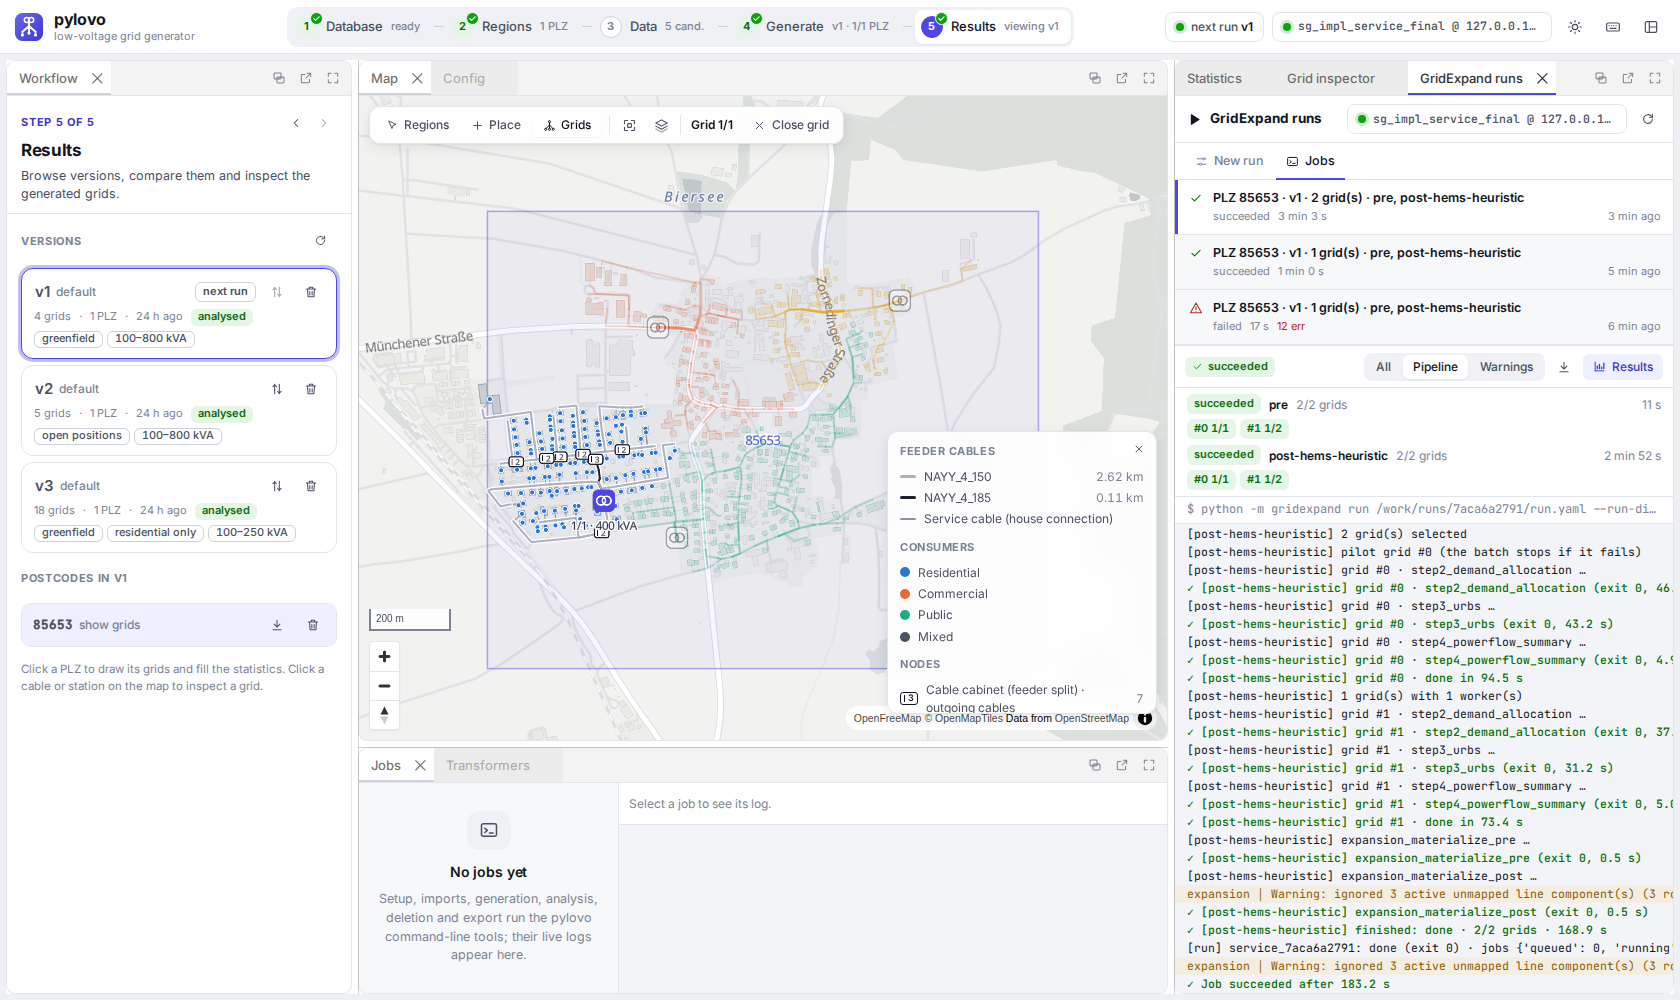
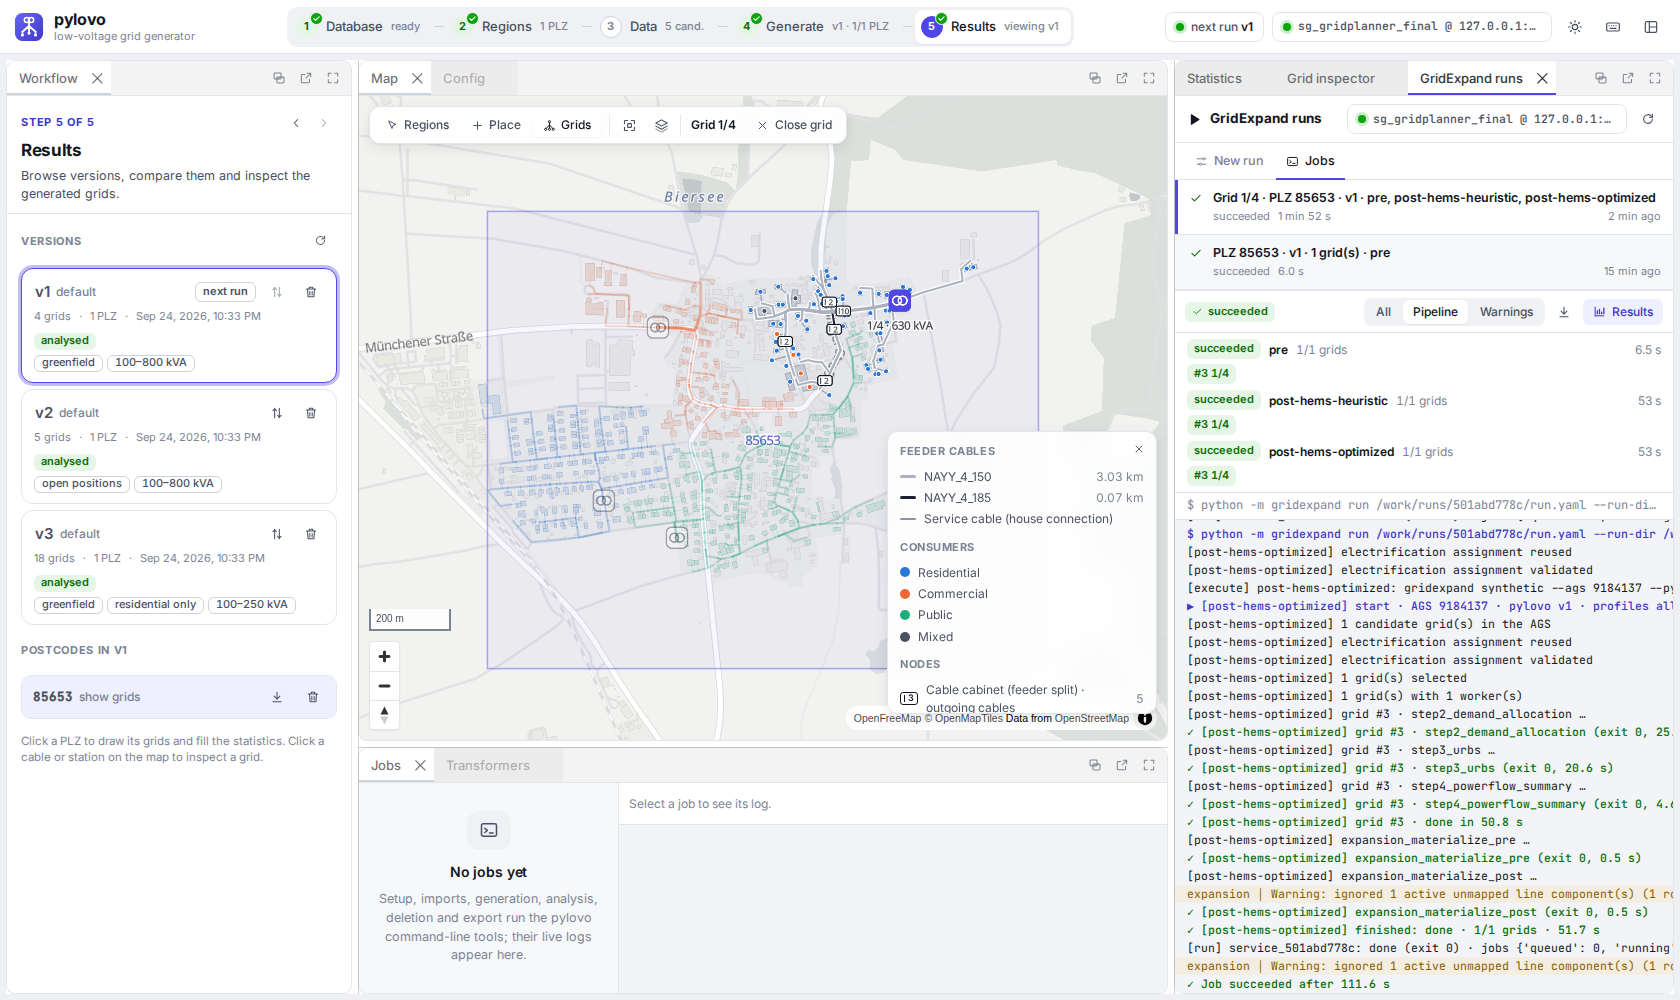
CHANGES.md: round 2 (building assets, single-grid runs, scenario editor, one-command setup); service screenshots

diff --git a/CHANGES.md b/CHANGES.md
@@ -321,3 +321,37 @@ Removed from the repository (agent handovers, per `AGENTS.md`): the two `*_AGENT
 - Agent briefs, reviews and reports: `../AI/SurroGrid/GridExpand/fable-review/` (a copy of this file too).
 - pylovo: branch `fable/ui-plugins-dev-review` (plugin loader) is not merged; it merges cleanly onto the current
   `feature/dev-review` (`c3020e8`). Your pylovo checkout (`local-grid-preparation-new`) was not touched.
+
+---
+
+## 12. Round 2: GridPlanner case-study workflow (2026-09-26)
+
+Your feedback: asset symbols on the map, scenario settings in the UI, a simpler setup from built images,
+and one grid's full pipeline in the UI (a whole PLZ stays a terminal job).
+
+| Change | Where |
+|---|---|
+| **Building assets on the map.** Step 4 stores the assets each post-case power flow simulated (new table `powerflow_asset`, migration `0005`): PV per building, battery, heat pump, heating rod, heat storage and EVs per bus, from the Step 3 capacities (heuristic rules or optimisation). The map layer draws one small pill per building with a badge for PV, battery, heat pump and EV, a dot where the pill does not fit; the legend switches each asset type and shows totals; hovering shows the sizes (kWp, kWh/kW, kW el, buffer, EVs and home charging). The results panel has a building-asset KPI. | `powerflow/assets.py`, `db/sql/0005_powerflow_asset.sql`, `service/queries.py`, `service/ui/assets.js`, `maplayer.js` |
+| **Full pipeline for one grid.** The runs panel has three modes: *This grid* (the grid selected in pylovo, by identity: `plz/kcid/bcid` in the run YAML, any size, all three model cases by default), *Several grids* (the old candidate table), *Whole PLZ* (prepares a terminal run: run YAML, `tmux` commands to start, watch, check and resume — via `docker compose exec` in GridPlanner — and a list of these runs with their `state.json` status). | `service/routers/jobs.py`, `service/commands.py`, `ui/panels/runs.js` |
+| **Scenario editor.** A panel like pylovo's config editor: 31 key assumptions in 7 sections (adoption, prices, PV, battery, heat, mobility, time aggregation) with units and the YAML comments as help, a YAML tab, live validation with the loader the runs use, the new scenario key, *Save as new scenario* into a user folder (never over shipped files; own files only with confirmation and a backup). Comments and layout of the YAML are kept (`ruamel.yaml` in the `service` extra). | `service/scenario_form.py`, `service/routers/scenarios.py`, `ui/panels/scenarios.js` |
+| **One-command setup.** GridPlanner has `./gridplanner init` (one set of database keys, uid, data files found automatically, pylovo config copied from the image) and `./gridplanner up` (pull the images, or build from checkouts), plus `down`, `status`, `logs`, `update`, `doctor`. No `.env` is mounted into the containers any more; `scenarios/` is writable. GitHub Actions workflows publish `ghcr.io/tum-ens/gridexpand` and `ghcr.io/tum-ens/pylovo-ui` (branch, version and sha tags) — **not pushed**. The GridExpand image is 1.6 GB smaller (uv cache out of the image). | `../GridPlanner`, `.github/workflows/gridexpand-image.yml`, pylovo `.github/workflows/pylovo-ui-image.yml`, `db/engine.py` |
+
+Verified: the regression harness is unchanged apart from the new `powerflow_asset` rows (IDENTICAL without them);
+`pytest` 589 passed; in containers through the proxy, on a fresh sandbox database: `init` 0.2 s, `up --build`
+51 s, `doctor` all green, one grid (63 buildings) with all three cases from the browser in 1 min 52 s, assets,
+hover and the scenario editor without page errors (screenshots in `GridPlanner/docs/img/`).
+
+Where the UI lives: the shell is **pylovo-ui** in the pylovo repository (`frontend/pylovo_ui`, plugin loader on
+branch `fable/ui-plugins-dev-review`); GridExpand's panels and API are in this repository
+(`GridExpand/src/gridexpand/service/`, served by `gridexpand serve`); GridPlanner has no UI code, only the
+composition.
+
+New decisions for you:
+
+22. A single-grid run selects the electrified buildings **within that grid** (as a run YAML with `kcid/bcid`
+    does), so it replaces that grid's earlier results of the same scenario, possibly with other buildings
+    electrified. The expansion analyses stay AGS-wide and add grids up. Keep (case-study semantics) or
+    select within the AGS?
+23. The image tags pinned in `GridPlanner/.env.example` assume pylovo `feature/dev-review` (after merging
+    `fable/ui-plugins-dev-review`) and SurroGrid `feature/update-pipeline`; nothing is published before you
+    push. GHCR packages start private.
